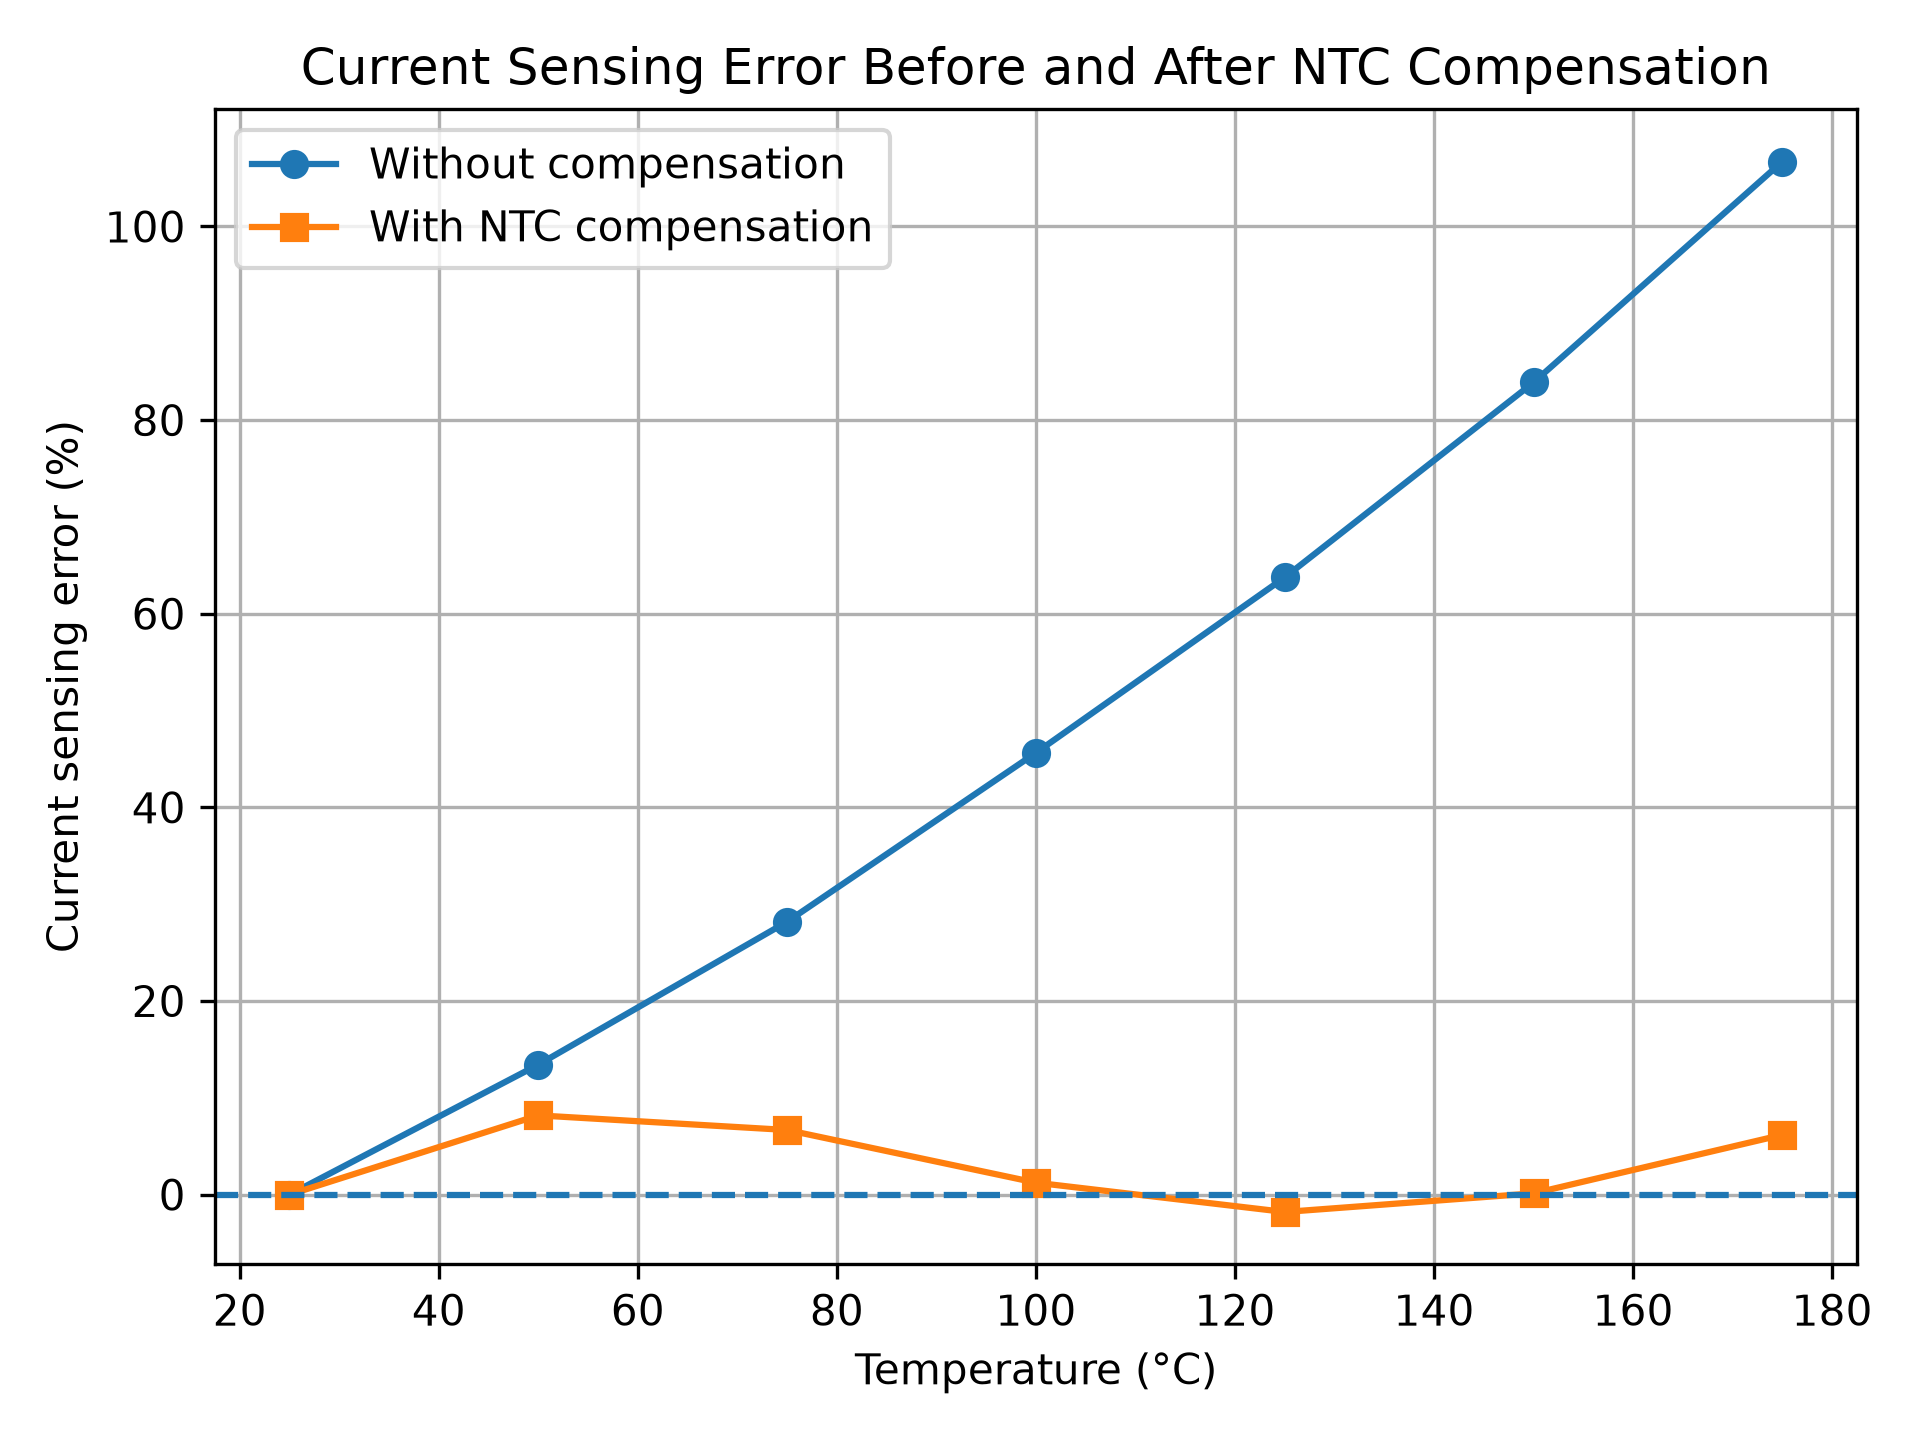
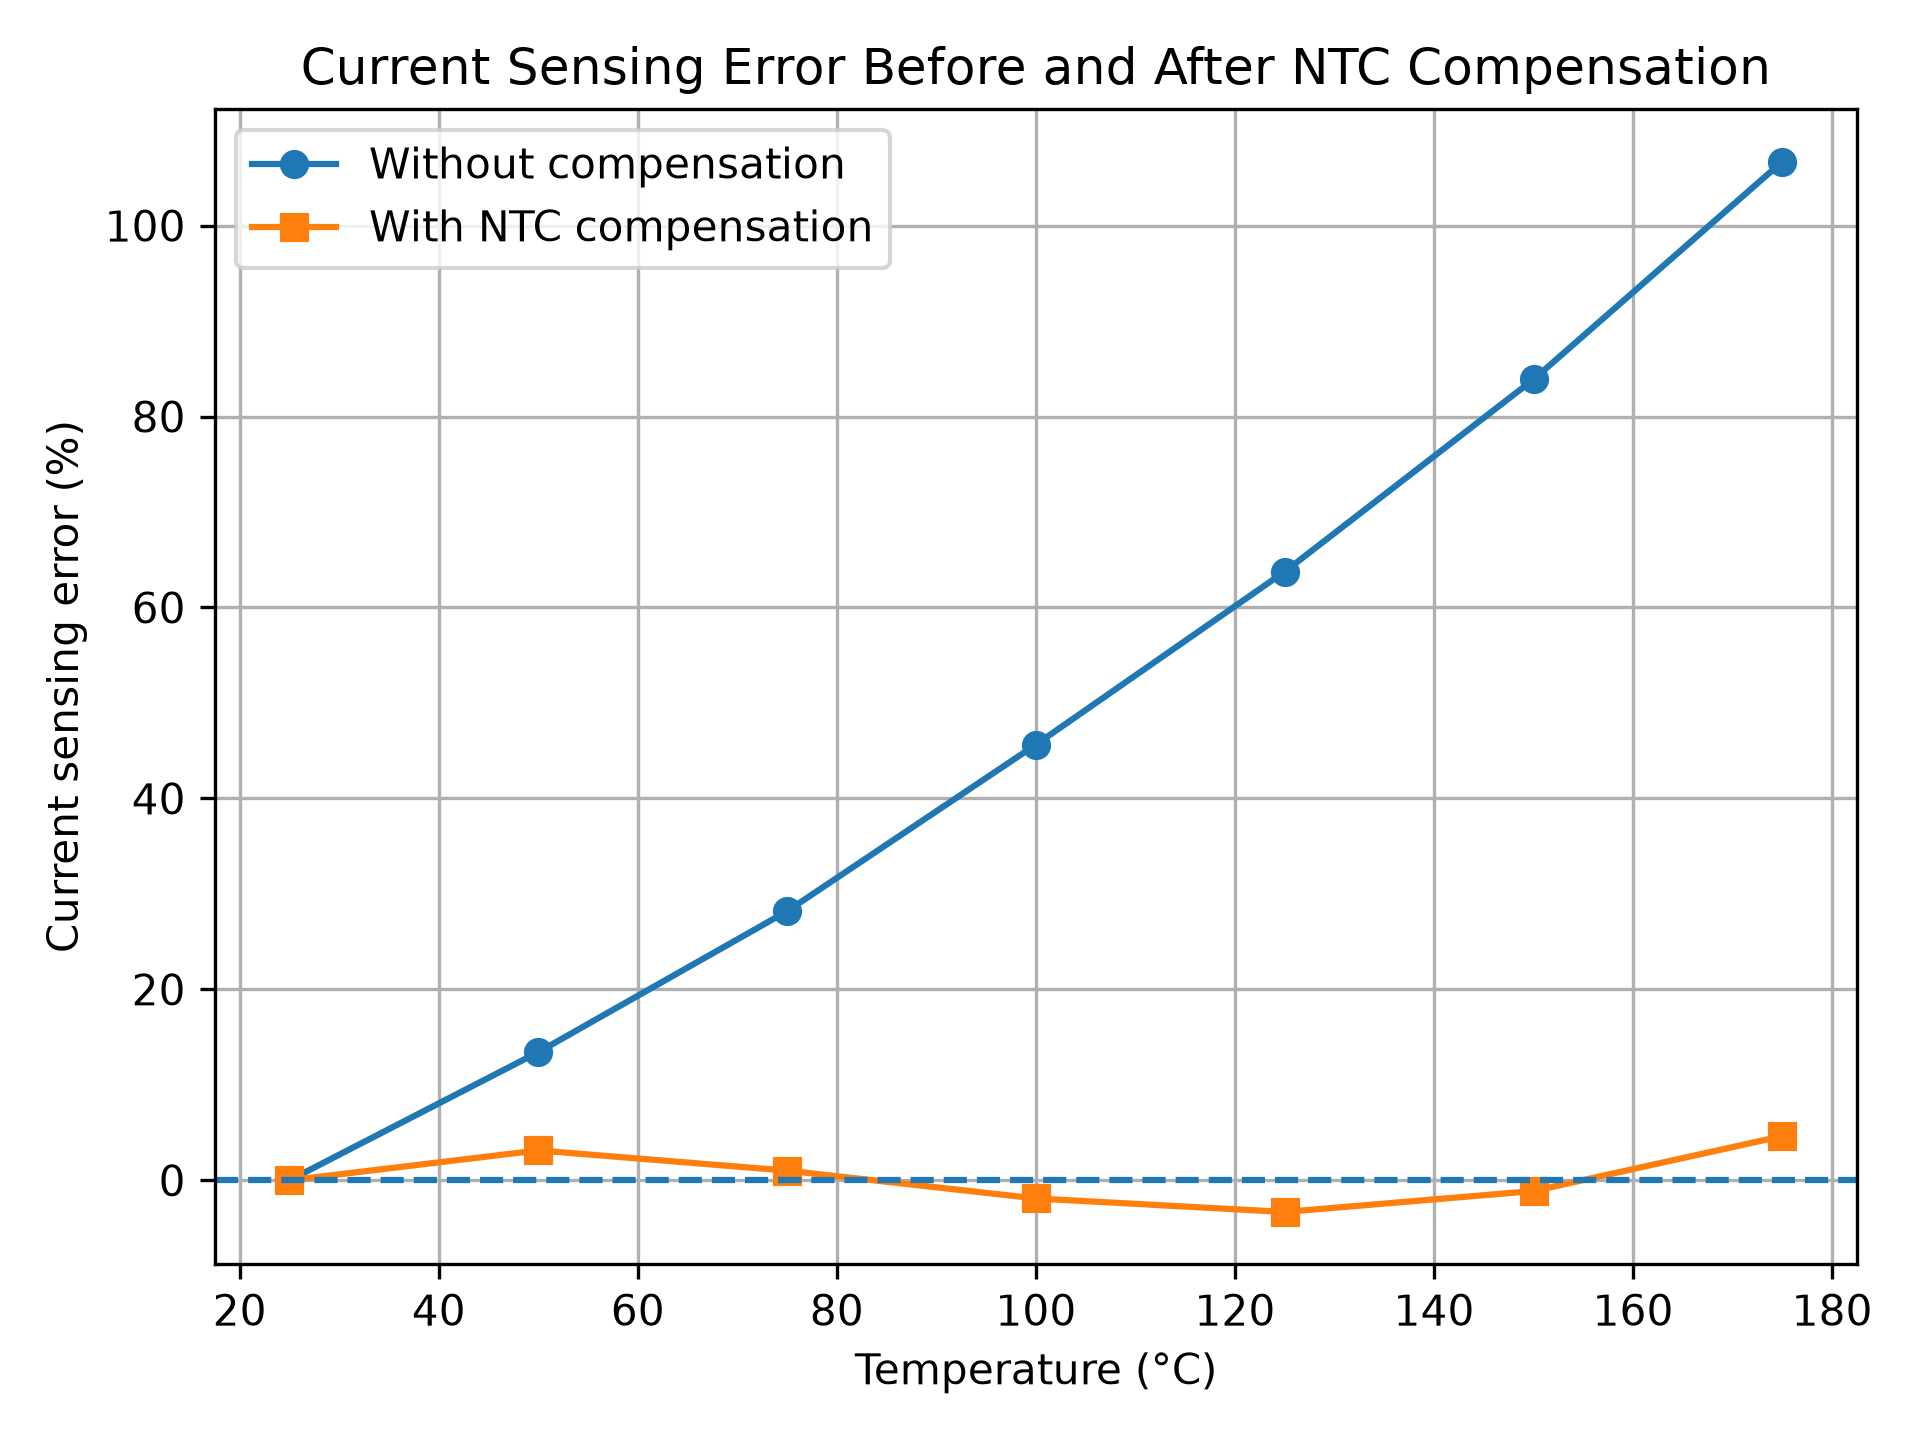
Add integrated NTC compensation circuit and update error analysis

diff --git a/analysis/error_comparison.py b/analysis/error_comparison.py
@@ -6,37 +6,26 @@ temperature = np.array([25, 50, 75, 100, 125, 150, 175])
 
 rds_mohm = np.array([1.49, 1.69, 1.91, 2.17, 2.44, 2.74, 3.08])
 
-R1 = 718
-R2 = 528
-R25 = 10000
-B = 3950
-Vin = 1.0
+vfinal_mV = np.array([
+    280.85801,
+    255.36887,
+    221.31551,
+    189.17879,
+    165.81724,
+    151.01202,
+    142.16188
+])
 
 I_actual = 10.0
 
-T_kelvin = temperature + 273.15
-
-Rntc = R25 * np.exp(
-    B * (1 / T_kelvin - 1 / 298.15)
-)
-
-Vcomp = Vin * (R2 + Rntc) / (R1 + R2 + Rntc)
-
 rds_25 = rds_mohm[0]
+vfinal_25 = vfinal_mV[0]
 
-Vds_mV = I_actual * rds_mohm
+I_no_comp = I_actual * (rds_mohm / rds_25)
 
-I_no_comp = Vds_mV / rds_25
+compensation_factor = vfinal_mV / vfinal_25
 
-coeff = np.polyfit(Vcomp, rds_mohm, 2)
-
-rds_est_raw = np.polyval(coeff, Vcomp)
-
-offset = rds_mohm[0] - rds_est_raw[0]
-
-rds_est = rds_est_raw + offset
-
-I_comp = Vds_mV / rds_est
+I_comp = I_actual * (rds_mohm / rds_25) * compensation_factor
 
 error_no_comp = (I_no_comp - I_actual) / I_actual * 100
 error_comp = (I_comp - I_actual) / I_actual * 100
@@ -44,7 +33,7 @@ error_comp = (I_comp - I_actual) / I_actual * 100
 result = pd.DataFrame({
     "Temperature_C": temperature,
     "RDS_on_mOhm": rds_mohm,
-    "Vcomp_V": Vcomp,
+    "Vfinal_mV": vfinal_mV,
     "I_actual_A": I_actual,
     "I_no_comp_A": I_no_comp,
     "I_comp_A": I_comp,
@@ -53,10 +42,22 @@ result = pd.DataFrame({
 })
 
 print(result)
+
 result.to_csv("results/error_comparison.csv", index=False)
 
-plt.plot(temperature, error_no_comp, "o-", label="Without compensation")
-plt.plot(temperature, error_comp, "s-", label="With NTC compensation")
+plt.plot(
+    temperature,
+    error_no_comp,
+    "o-",
+    label="Without compensation"
+)
+
+plt.plot(
+    temperature,
+    error_comp,
+    "s-",
+    label="With NTC compensation"
+)
 
 plt.axhline(0, linestyle="--")
 
@@ -67,5 +68,7 @@ plt.title("Current Sensing Error Before and After NTC Compensation")
 plt.grid()
 plt.legend()
 plt.tight_layout()
+
 plt.savefig("results/error_comparison.png", dpi=300)
+
 plt.show()
